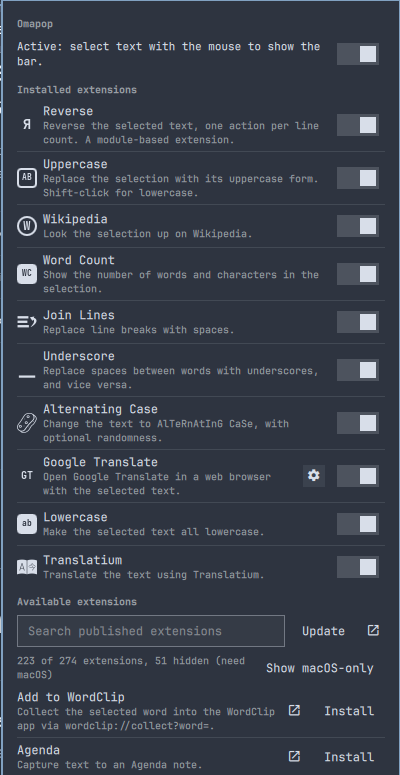
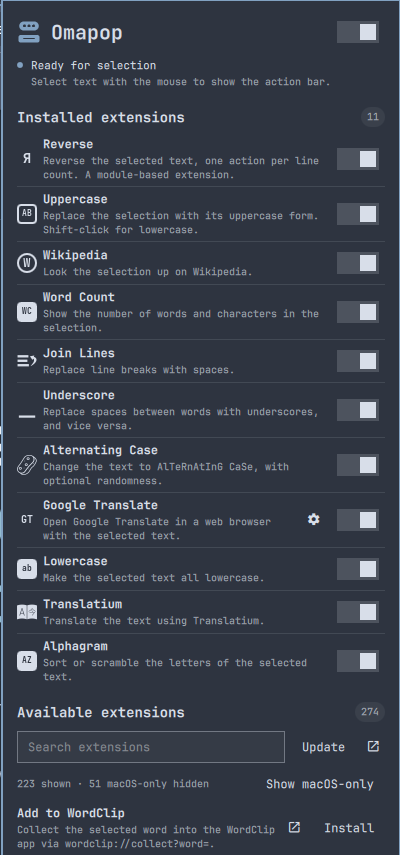
Refresh the listing preview with the polished panel

diff --git a/assets/preview.qml b/assets/preview.qml
@@ -103,6 +103,12 @@ Rectangle {
     Copy { x: 72; y: 819; text: "YAML  ·  Shell  ·  JavaScript"; color: "#adb8ca"; font.pixelSize: 20 }
 
     Copy { x: 922; y: 34; text: "YOUR ACTIONS, YOUR WAY"; color: "#88c0d0"; font.pixelSize: 13; font.letterSpacing: 1.5 }
-    Image { x: 922; y: 64; width: 400; height: 775; source: "extensions-panel.png"; smooth: false }
+    Image {
+        x: 922; y: 64; width: 400; height: 775
+        source: "extensions-panel.png"
+        fillMode: Image.PreserveAspectFit
+        horizontalAlignment: Image.AlignLeft
+        smooth: true
+    }
     Copy { x: 922; y: 853; text: "Live extensions panel · Nord theme"; color: "#8492a8"; font.pixelSize: 14 }
 }
